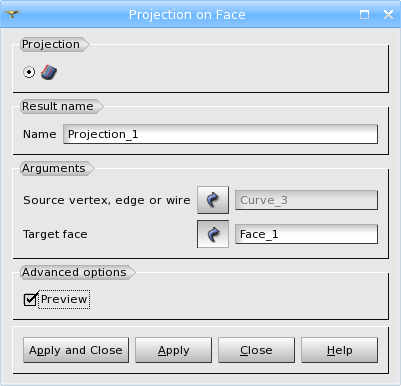
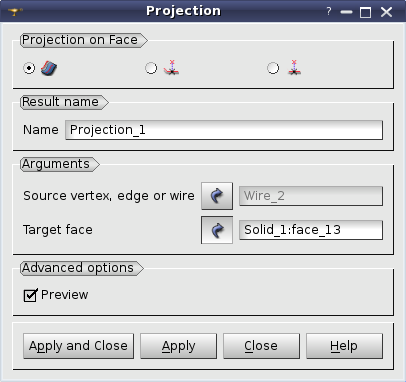
22755: [EDF] Improvement of Projection operation

diff --git a/src/GEOMGUI/GEOM_msg_en.ts b/src/GEOMGUI/GEOM_msg_en.ts
@@ -1213,16 +1213,44 @@ Please, select face, shell or solid and try again</translation>
         <translation>Division pattern</translation>
     </message>
     <message>
-        <source>GEOM_PROJECTION</source>
-        <translation>Projection</translation>
-    </message>
-    <message>
-        <source>GEOM_PROJECTION_TITLE</source>
+        <source>GEOM_PROJECTION_ON_FACE</source>
         <translation>Projection on Face</translation>
     </message>
     <message>
-        <source>GEOM_SOURCE_OBJECT</source>
+        <source>GEOM_PROJECTION_ON_WIRE</source>
+        <translation>Projection on Wire</translation>
+    </message>
+    <message>
+        <source>GEOM_PROJECTION_ON_EDGE</source>
+        <translation>Projection on Edge</translation>
+    </message>
+    <message>
+        <source>GEOM_PROJECTION_TITLE</source>
+        <translation>Projection</translation>
+    </message>
+    <message>
+        <source>GEOM_PROJ_ON_FACE_SOURCE</source>
         <translation>Source vertex, edge or wire</translation>
+    </message>
+    <message>
+        <source>GEOM_PROJ_ON_FACE_TARGET</source>
+        <translation>Target face</translation>
+    </message>
+    <message>
+        <source>GEOM_PROJ_ON_WIRE_SOURCE</source>
+        <translation>Source vertex</translation>
+    </message>
+    <message>
+        <source>GEOM_PROJ_ON_WIRE_TARGET</source>
+        <translation>Target wire</translation>
+    </message>
+    <message>
+        <source>GEOM_PROJ_ON_EDGE_SOURCE</source>
+        <translation>Source vertex</translation>
+    </message>
+    <message>
+        <source>GEOM_PROJ_ON_EDGE_TARGET</source>
+        <translation>Target edge</translation>
     </message>
     <message>
         <source>GEOM_SOLUTION</source>
@@ -1231,10 +1259,6 @@ Please, select face, shell or solid and try again</translation>
     <message>
         <source>GEOM_SOLUTION_I</source>
         <translation>Solution %1</translation>
-    </message>
-    <message>
-        <source>GEOM_TARGET_OBJECT</source>
-        <translation>Target face</translation>
     </message>
     <message>
         <source>GEOM_WITH_CONTACT</source>

diff --git a/src/GEOMGUI/GEOM_images.ts b/src/GEOMGUI/GEOM_images.ts
@@ -432,8 +432,16 @@
             <translation>offset.png</translation>
         </message>
         <message>
-            <source>ICON_DLG_PROJECTION</source>
+            <source>ICON_DLG_PROJECTION_ON_FACE</source>
             <translation>projection.png</translation>
+        </message>
+        <message>
+            <source>ICON_DLG_PROJECTION_ON_WIRE</source>
+            <translation>projection_on_wire.png</translation>
+        </message>
+        <message>
+            <source>ICON_DLG_PROJECTION_ON_EDGE</source>
+            <translation>projection_on_edge.png</translation>
         </message>
         <message>
             <source>ICON_DLG_EXTEND_EDGE</source>

diff --git a/src/GEOM_SWIG/geomBuilder.py b/src/GEOM_SWIG/geomBuilder.py
@@ -8785,9 +8785,10 @@ class geomBuilder(object, GEOM._objref_GEOM_Gen):
             self._autoPublish(anObj, theName, "offset")
             return anObj
 
-        ## Create new object as projection of the given one on a 2D surface.
+        ## Create new object as projection of the given one on another.
         #  @param theSource The source object for the projection. It can be a point, edge or wire.
-        #  @param theTarget The target object. It can be planar or cylindrical face.
+        #         Edge and wire are acceptable if @a theTarget is a face.
+        #  @param theTarget The target object. It can be planar or cylindrical face, edge or wire.
         #  @param theName Object name; when specified, this parameter is used
         #         for result publication in the study. Otherwise, if automatic
         #         publication is switched on, default value is used for result name.
@@ -8798,11 +8799,12 @@ class geomBuilder(object, GEOM._objref_GEOM_Gen):
         @ManageTransactions("TrsfOp")
         def MakeProjection(self, theSource, theTarget, theName=None):
             """
-            Create new object as projection of the given one on a 2D surface.
+            Create new object as projection of the given one on another.
 
             Parameters:
                 theSource The source object for the projection. It can be a point, edge or wire.
-                theTarget The target object. It can be planar or cylindrical face.
+                          Edge and wire are acceptable if theTarget is a face.
+                theTarget The target object. It can be planar or cylindrical face, edge or wire.
                 theName Object name; when specified, this parameter is used
                         for result publication in the study. Otherwise, if automatic
                         publication is switched on, default value is used for result name.

diff --git a/doc/salome/examples/transformation_operations_ex07.py b/doc/salome/examples/transformation_operations_ex07.py
@@ -2,7 +2,6 @@
 
 import salome
 salome.salome_init()
-import GEOM
 from salome.geom import geomBuilder
 geompy = geomBuilder.New(salome.myStudy)
 
@@ -25,24 +24,17 @@ projection = geompy.MakeProjection(curve, face_cyl)
 # add objects in the study
 geompy.addToStudy(cylinder, "cylinder")
 geompy.addToStudyInFather(cylinder, face_cyl, "face_cyl")
-geompy.addToStudy(p1, "p1")
-geompy.addToStudy(p2, "p2")
-geompy.addToStudy(p3, "p3")
-geompy.addToStudy(p4, "p4")
-geompy.addToStudy(p5, "p5")
 geompy.addToStudy(curve, "curve")
 geompy.addToStudy(projection, "projection")
 
-#projection of point on wire.
+#projection of point on wire
 e1 = geompy.MakeLineTwoPnt(p1, p2)
 e2 = geompy.MakeLineTwoPnt(p2, p3)
 
 w1 = geompy.MakeWire([e1, e2], 1.e-7)
 v1 = geompy.MakeVertex(300, 40, 100)
 
-prj = geompy.MakeProjectionOnWire(v1, w1)
-geompy.addToStudy(e1, "e1")
-geompy.addToStudy(e2, "e2")
+prj = geompy.MakeProjection(v1, w1)
 geompy.addToStudy(w1, "w1")
 geompy.addToStudy(v1, "v1")
-geompy.addToStudy(prj[1], "projOnWire")
+geompy.addToStudy(prj, "projOnWire")

diff --git a/src/TransformationGUI/TransformationGUI_ProjectionDlg.h b/src/TransformationGUI/TransformationGUI_ProjectionDlg.h
@@ -49,6 +49,7 @@ protected:
   virtual GEOM::GEOM_IOperations_ptr createOperation();
   virtual bool                       isValid (QString&);
   virtual bool                       execute (ObjectList&);
+  virtual void                       addSubshapesToStudy();
 
 private:
   void                               Init();
@@ -66,6 +67,7 @@ private slots:
   void                               SetEditCurrentArgument();
   void                               SelectionIntoArgument();
   void                               ActivateThisDialog();
+  void                               ConstructorsClicked( int constructorId );
 };
 
 #endif // TRANSFORMATIONGUI_PROJECTIONDLG_H
